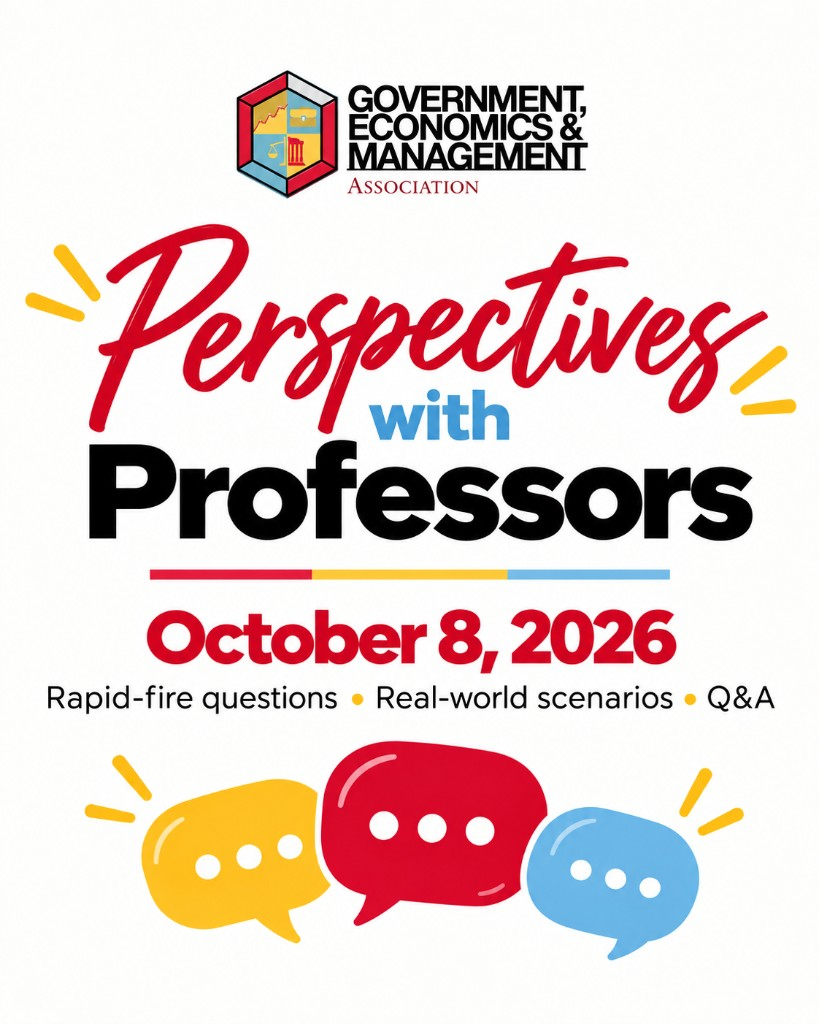
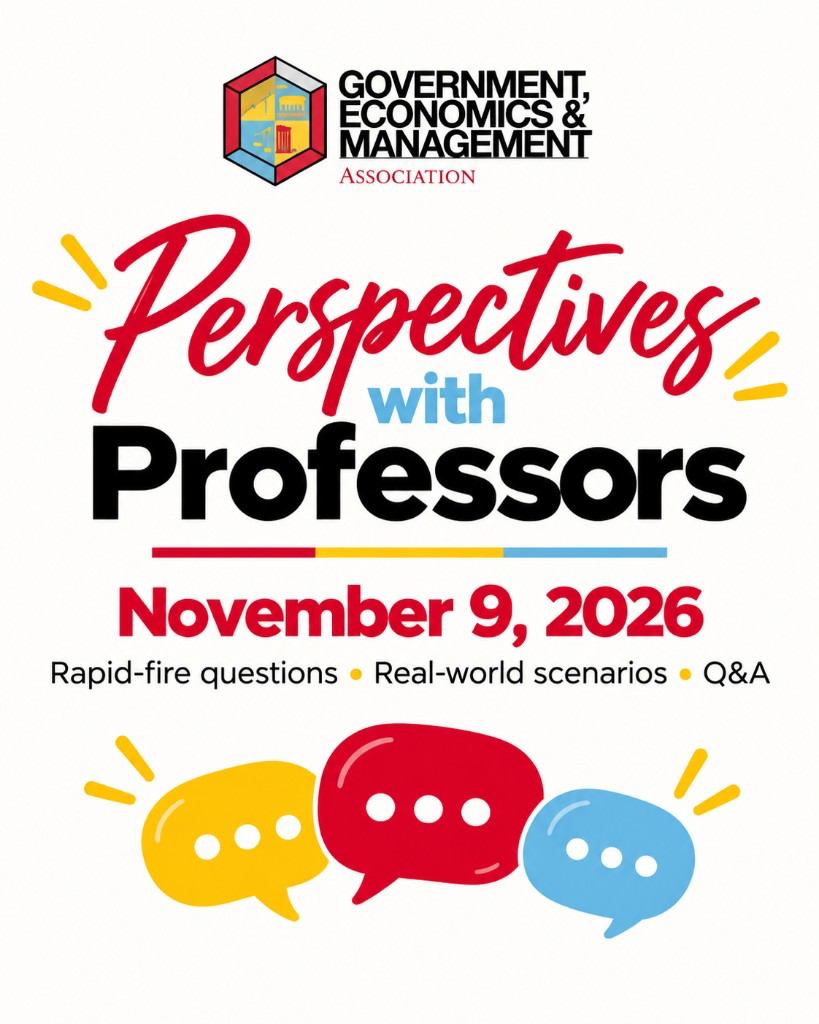
Refresh GEMA event imagery and Perspectives graphic

Changed region(s): [[0.0305, 0.0625, 0.9768, 0.9375]]

diff --git a/src/data/eventRecaps.ts b/src/data/eventRecaps.ts
@@ -82,6 +82,67 @@ export const eventRecaps: EventRecap[] = [
     ],
     galleryUrl: null,
   },
+  {
+    id: '5k-for-charity-mefsa',
+    title: '5K for Charity',
+    date: '2026-10-25',
+    category: 'In collaboration with MEFSA',
+    subtitle: 'In collaboration with MEFSA and campus partners',
+    location: 'Guelph Arboretum',
+    time: '10:00 AM – 12:00 PM',
+    cost: null,
+    shortRecap:
+      'GEMA joined MEFSA and other campus clubs for a charity 5K supporting the Canadian Cancer Society, ending with a shared cheque presentation.',
+    moreRecap:
+      'GEMA joined MEFSA and other campus clubs for a charity 5K at the Guelph Arboretum supporting the Canadian Cancer Society and breast cancer research. Students turned out for the run, giveaways, and raffle prizes, and the day closed with a group cheque presentation recognizing the funds raised together.',
+    visualMode: 'photos',
+    featuredImages: [
+      {
+        src: '/recaps/5k-for-charity-2026-group.jpg',
+        alt: 'GEMA students and campus partners presenting a Canadian Cancer Society donation cheque after the 5K for Charity',
+        objectPosition: 'center 48%',
+      },
+      {
+        src: '/recaps/5k-for-charity-2026-cheque.jpg',
+        alt: 'Two students holding the Canadian Cancer Society donation cheque at the 5K for Charity',
+        objectPosition: 'center 40%',
+      },
+    ],
+    galleryUrl: null,
+  },
+  {
+    id: 'langsgiving-carnival-pumpkin-painting',
+    title: 'Fall Fair — Pumpkin Painting',
+    date: '2026-10-28',
+    category: null,
+    subtitle: null,
+    location: 'Johnston Green',
+    time: '1:00 PM – 5:00 PM',
+    cost: null,
+    shortRecap:
+      'Students gathered with GEMA on Johnston Green for pumpkin painting, seasonal activities, and Fall Fair community programming.',
+    moreRecap:
+      'Students gathered with GEMA on Johnston Green for Fall Fair pumpkin painting, seasonal activities, and community programming. The afternoon mixed creative table activities with a lively outdoor campus atmosphere.',
+    visualMode: 'photos',
+    featuredImages: [
+      {
+        src: '/recaps/fall-fair-2026-table.jpg',
+        alt: 'GEMA students at the Fall Fair pumpkin painting table on Johnston Green',
+        objectPosition: 'center 42%',
+      },
+      {
+        src: '/recaps/fall-fair-2026-pumpkins-1.jpg',
+        alt: 'Two students holding painted pumpkins at the GEMA Fall Fair',
+        objectPosition: 'center 34%',
+      },
+      {
+        src: '/recaps/fall-fair-2026-pumpkins-2.jpg',
+        alt: 'Two students smiling with painted pumpkins at the GEMA Fall Fair',
+        objectPosition: 'center 36%',
+      },
+    ],
+    galleryUrl: null,
+  },
 ]
 
 export const eventRecapEmptyCopy =

diff --git a/src/data/events.ts b/src/data/events.ts
@@ -197,9 +197,10 @@ export const events: GemaEvent[] = [
     cost: null,
     registrationUrl: null,
     image: '/events/perspectives-with-professors.png',
-    imageAlt: 'Perspectives with Professors event graphic',
-    imageFit: 'contain',
-    imageObjectPosition: 'center center',
+    imageAlt:
+      'Perspectives with Professors event graphic for November 9 at the University Club',
+    imageFit: 'cover',
+    imageObjectPosition: 'center 42%',
     imageFitDialog: 'contain',
     imageObjectPositionDialog: 'center center',
     featured: true,
